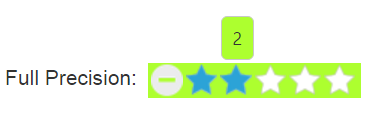
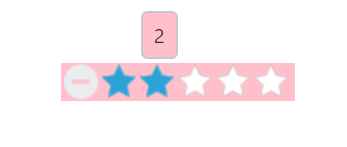
spell errors has been cleared

Changed region(s): [[0.0, 0.0726, 0.9798, 0.7984]]

diff --git a/angularjs/Rating/Appearance-and-Styling.md b/angularjs/Rating/Appearance-and-Styling.md
@@ -154,7 +154,7 @@ The following code example is used to render the **Rating** control with **custo
 
 <style type="text/css">
    .custom {
-       background-color: greenyellow;
+       background-color: pink;
    }
 </style>
 
